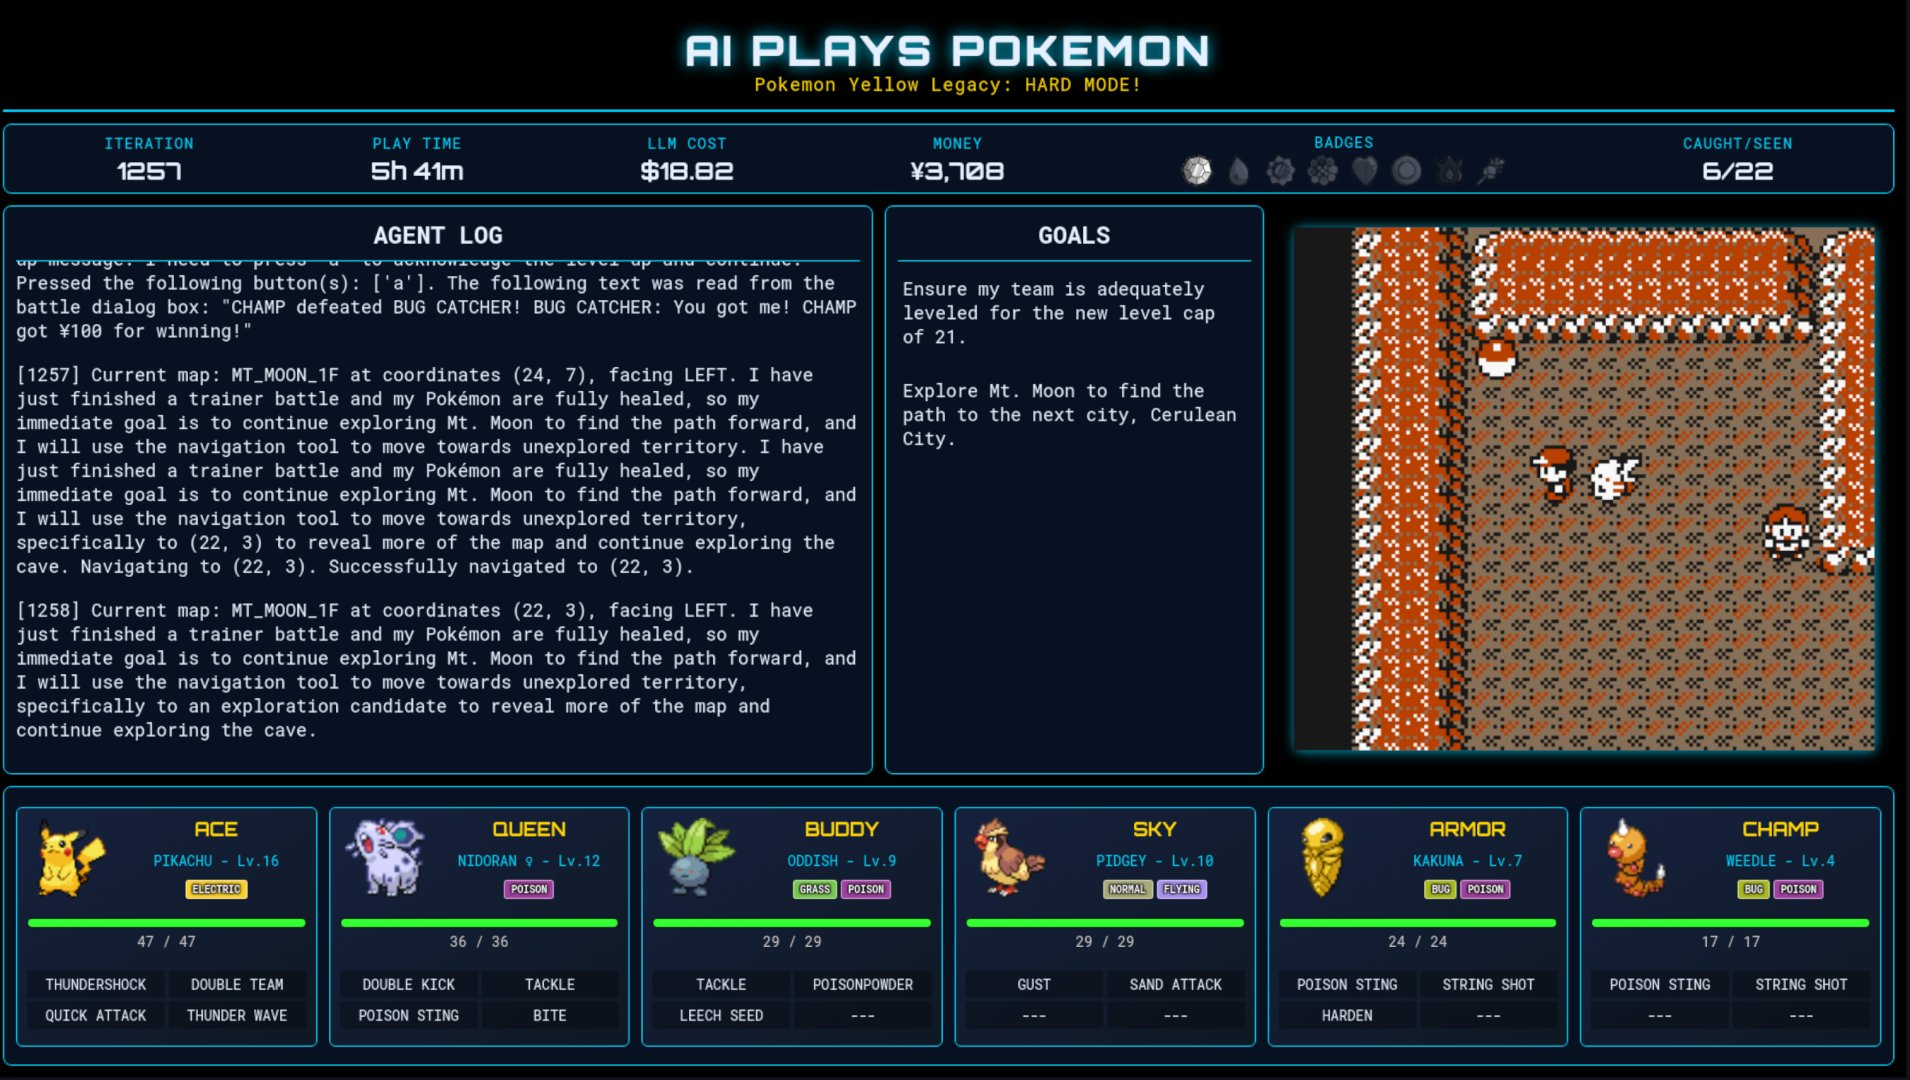
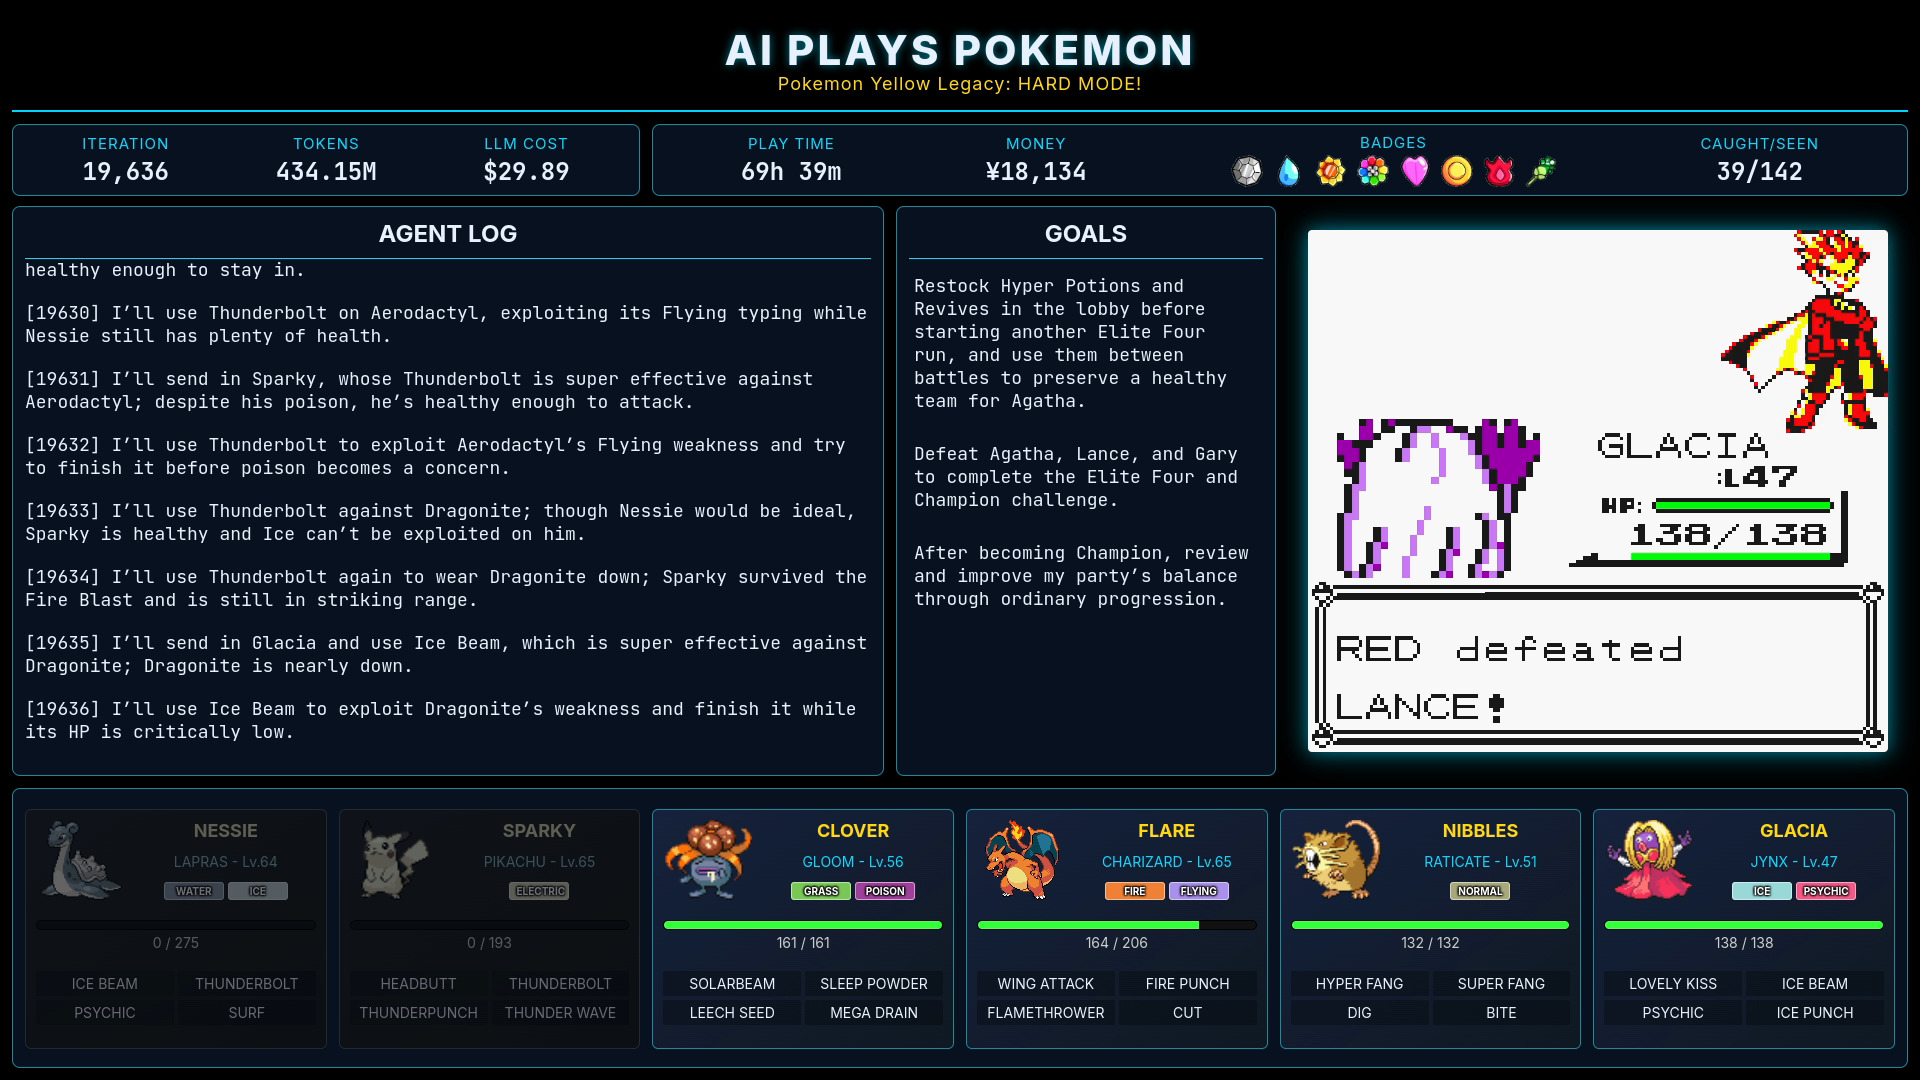
Refresh Pokémon AI overview and project screenshot
Update the title, description, and concise overview to describe the current
Pydantic AI agents, deterministic gameplay tools, hierarchical rolling
memory, and map navigation. Preserve the page URL and publication date,
and record the revision date as October 15, 2026.

Replace the obsolete workflow documentation link with the architecture
article and remove the deleted Twitch recording link. Retain the verified
philosophy link.

Replace the project image with the supplied screenshot showing the agent's
victory over Lance and update its alt text. Copy the original JPEG without
recompressing it; retain the site's existing image rendering behavior.

diff --git a/src/content/projects/2025/pokemon-ai.md b/src/content/projects/2025/pokemon-ai.md
@@ -1,22 +1,21 @@
 ---
-title: 'Pokémon AI Workflow'
-description: 'An AI agent that plays Pokémon using a Gemini powered Junjo workflow.'
+title: 'Pokémon AI Agent'
+description: 'An autonomous Pokémon agent combining LLM decisions with deterministic gameplay tools.'
 publishedDate: '2025-08-24'
-updatedDate: null
+updatedDate: '2026-10-15'
 github: 'https://github.com/clambro/ai-plays-pokemon'
 image: '../../../images/projects/2025/pokemon-ai.jpg'
-image_alt: 'A screenshot showing the Pokémon AI workflow in action.'
+image_alt: 'The Pokémon AI dashboard showing its agent log, goals, and team after defeating Lance.'
 is_featured: true
 blog_tag: 'pokemon-ai'
 ---
 
 ## Overview
 
-This is a fully autonomous AI workflow designed to play Pokémon Yellow Legacy on hard mode. The workflow, written in Python and orchestrated by Junjo, operates asynchronously with the PyBoy emulator to play the game. The guiding philosophy is one of "freedom with constraint," where the LLM makes the high-level strategic decisions, while safe, deterministic algorithms handle the low-level execution. To support this, the system features a three-tier memory system with RAG retrieval from a SQLite database and an ASCII map renderer with A\* search for overworld navigation. The AI streamed live on Twitch for several days, but is currently paused for upgrades to its high-level planning capabilities.
+This is a fully autonomous AI agent designed to play Pokémon Yellow Legacy on hard mode. Written in Python using Pydantic AI, it operates asynchronously with the PyBoy emulator, with dedicated agents for overworld exploration, battles, and dialogue. The guiding philosophy is one of "freedom within constraints," where the LLM makes the strategic decisions while deterministic tools validate its requests and handle navigation, menus, and other game mechanics. The system uses hierarchical rolling memory to retain recent events and summarize older history, alongside persistent text maps and A* search for navigation. The project streamed live on Twitch.
 
 ## Links
 
 - [Full code on GitHub](https://github.com/clambro/ai-plays-pokemon)
 - [Philosophy and design article](https://github.com/clambro/ai-plays-pokemon/blob/main/docs/philosophy.md)
-- [A deep-dive into the workflow](https://github.com/clambro/ai-plays-pokemon/blob/main/docs/workflow.md)
-- [Watch the AI fight the first gym leader](https://m.twitch.tv/videos/2544749106)
+- [A deep-dive into the architecture](https://github.com/clambro/ai-plays-pokemon/blob/main/docs/architecture.md)
